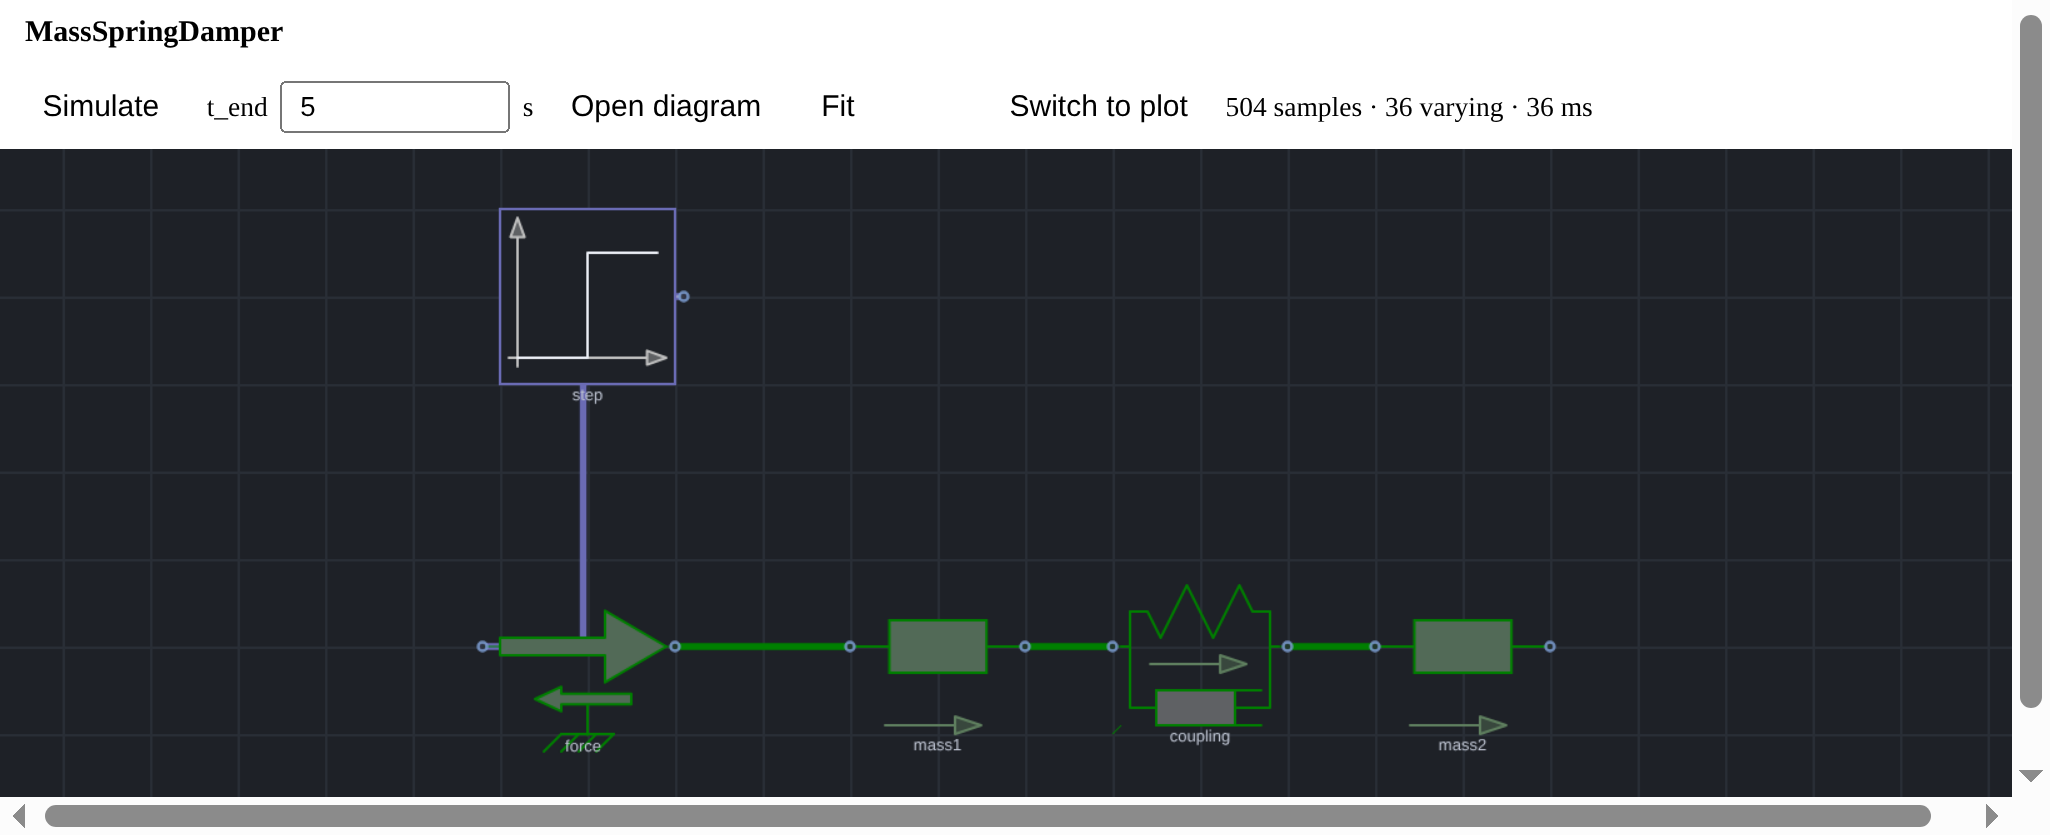
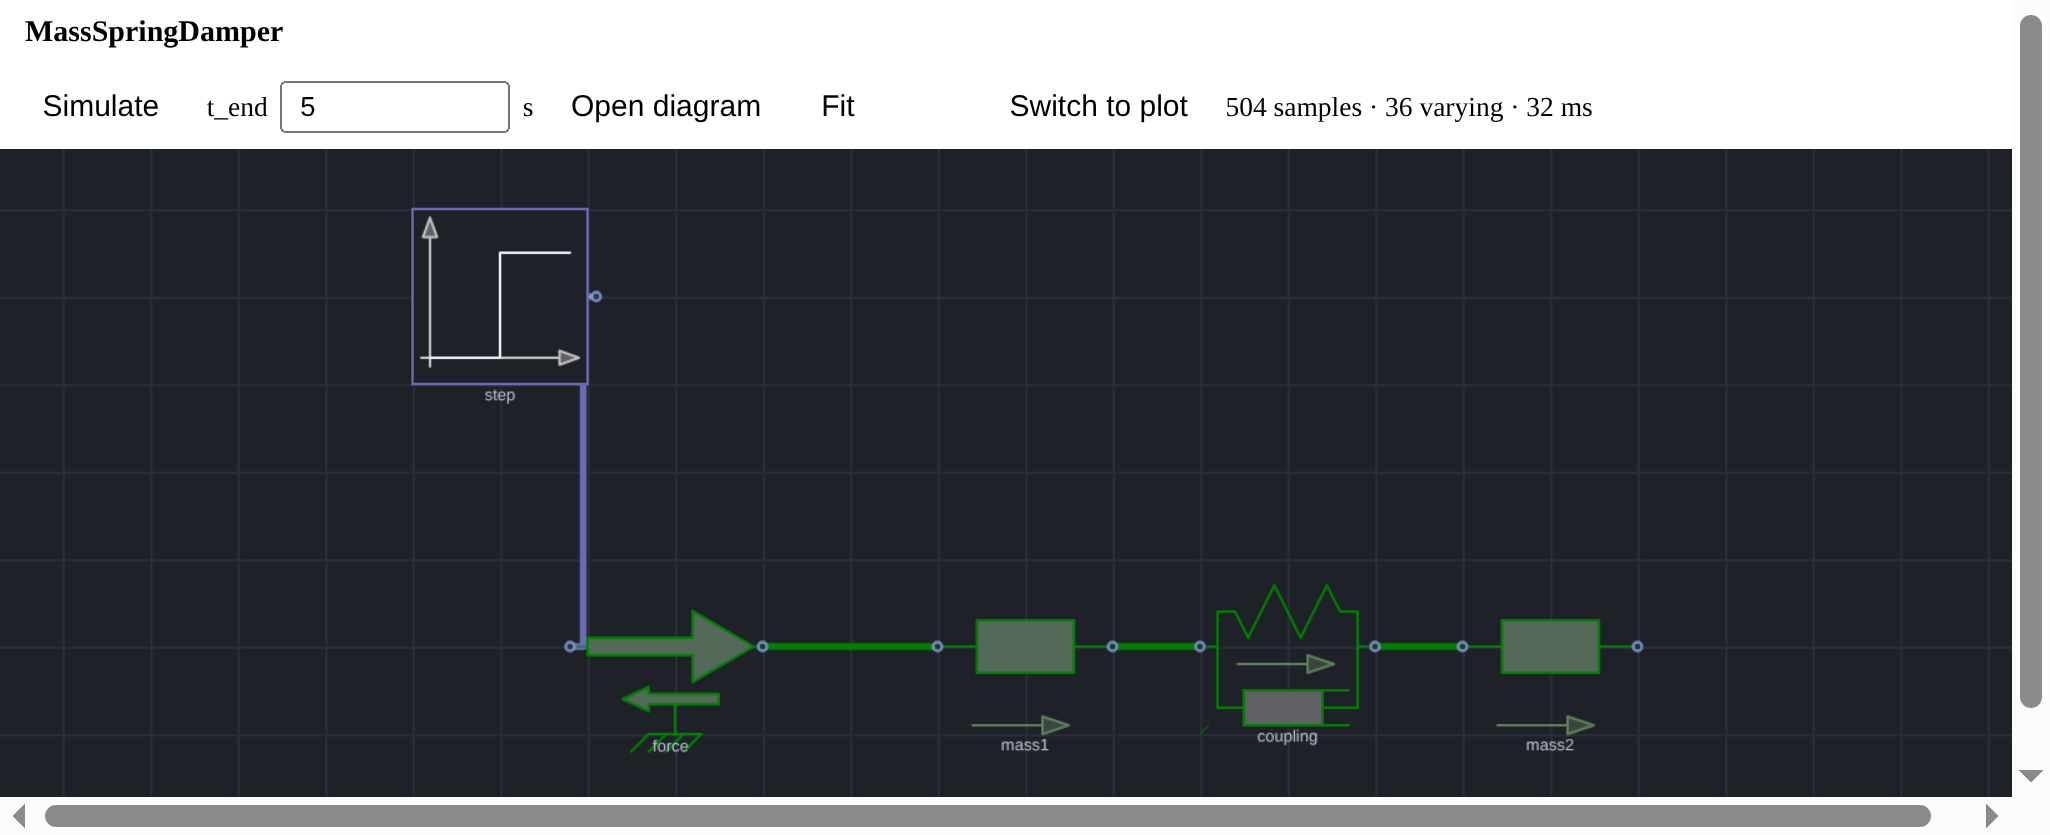
A tool to port a diagram arrangement from the vault into the shipped example
You arrange a diagram -- in a note's live block, or in a saved .mo in the studio -- and

    node scripts/apply-arrangement.mjs ~/modelica-vault/showcase/tank-orifice.md

takes the PLACEMENTS from your version, writes them into src/modelica/examples.ts, and
regenerates both note trees. Nothing else about the model is touched.

It refuses rather than guesses, because the dangerous half of this job is the half that
guesses: a component added, deleted or renamed, a parameter changed, a type swapped --
anything that is not a placement is reported and NOTHING is written. Half-applying a
model change would ship a model neither of us wrote, with a note beside it whose numbers
no longer describe it.

The model is read by the plugin's own parser, so what it sees is what the plugin sees,
and the comparison is structural: `describe()` spans the type and every modifier, so
`mass(m=1)` against `mass(m=2)` is a refusal that quotes both sides.

Two bugs of my own, found by using it rather than by reading it:

  - it wrote `extent={-100,30,-80,50}`, which is not Modelica -- the parser ignored the
    annotation, the component silently lost its placement, and the layout rules could not
    see that because a model where nothing is placed was skipped. The rules now FAIL on a
    model whose components are all unplaced, which is that signature.
  - run over the whole file, `\bstep\b` matched the word "step" in another example's
[…]

diff --git a/src/modelica/examples.ts b/src/modelica/examples.ts
@@ -159,7 +159,7 @@ const MASSSPRINGDAMPER = `model MassSpringDamper "Two masses coupled by a spring
   Modelica.Mechanics.Translational.Components.Mass mass2(m=2)
     annotation(Placement(transformation(extent={{20,-10},{40,10}})));
   Modelica.Blocks.Sources.Step step(height=1, startTime=0.1)
-    annotation(Placement(transformation(extent={{-80,30},{-60,50}})));
+    annotation(Placement(transformation(extent={{-100,30},{-80,50}})));
 equation
   connect(step.y, force.f);
   connect(force.flange, mass1.flange_a);

diff --git a/examples/vault/showcase/mass-spring-damper.md b/examples/vault/showcase/mass-spring-damper.md
@@ -22,7 +22,7 @@ model MassSpringDamper "Two masses coupled by a spring and damper"
   Modelica.Mechanics.Translational.Components.Mass mass2(m=2)
     annotation(Placement(transformation(extent={{20,-10},{40,10}})));
   Modelica.Blocks.Sources.Step step(height=1, startTime=0.1)
-    annotation(Placement(transformation(extent={{-80,30},{-60,50}})));
+    annotation(Placement(transformation(extent={{-100,30},{-80,50}})));
 equation
   connect(step.y, force.f);
   connect(force.flange, mass1.flange_a);

diff --git a/showcase/notes/mass-spring-damper.md b/showcase/notes/mass-spring-damper.md
@@ -22,7 +22,7 @@ model MassSpringDamper "Two masses coupled by a spring and damper"
   Modelica.Mechanics.Translational.Components.Mass mass2(m=2)
     annotation(Placement(transformation(extent={{20,-10},{40,10}})));
   Modelica.Blocks.Sources.Step step(height=1, startTime=0.1)
-    annotation(Placement(transformation(extent={{-80,30},{-60,50}})));
+    annotation(Placement(transformation(extent={{-100,30},{-80,50}})));
 equation
   connect(step.y, force.f);
   connect(force.flange, mass1.flange_a);
